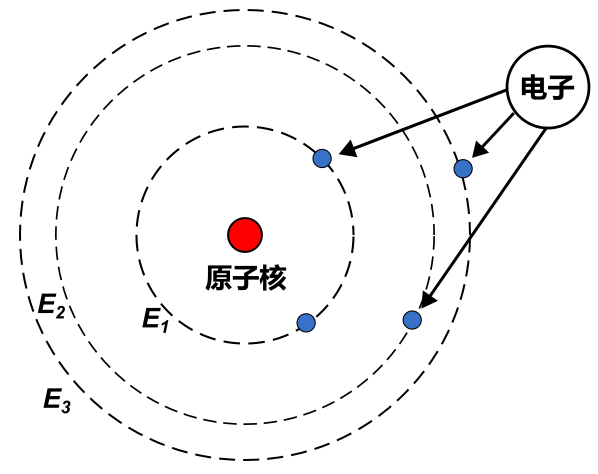
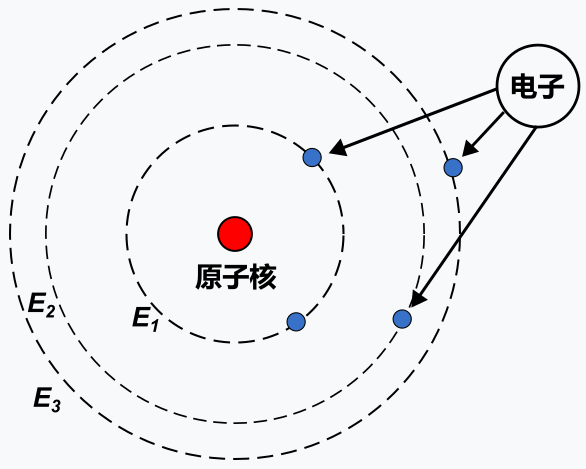
upload

diff --git a/_posts/2022-09-07-laser2.md b/_posts/2022-09-07-laser2.md
@@ -1,0 +1,76 @@
+---
+layout: post
+title: "激光原理——激光产生的原理"
+date:   2022-09-17
+tags: [geek]
+comments: true
+author: "飞鱼"
+---
+
+### 1. 原子发光的原理
+
+原子的能量是量子化的，电子所处的一系列的分立运动状态，对应于原子的一系列分立的能量值，这些能量通常称作电子的能级，依次用$E_1,E_2,E_3,...,E_n$表示，能量单位采用电子伏（$1eV = 1.602 \times 10^{-19}J$）。如下图，n的数值越大，电子所处轨道离原子核越远，则能量越大，能级越高。电子处于$n=1$轨道上时，能量处于最低状态，称之为基态（稳定状态），$n>1$的状态统称为激发态。
+
+<img src="https://raw.githubusercontent.com/JDavi123123/JDavi123123.github.io/master/images/202209162313704.png" alt="原子的结构" height = 250 />
+
+通常情况下，原子处于能量最低的基态。当外界向原子提供能量时，原子由于吸收了外界能量，原子内部的电子可移动低轨道跃迁到更高级的轨道，即原子跃迁到某一激发态。常见的激发方式之一是原子吸收一个光子而得到能量$hv$。处于激发态的原子是不稳定的，经过一段时间它会跃迁到能量较低的状态，以光子或其他方式放出能量。**无论是向上或是向下跃迁，原子所吸收或放出的能量都必须等于相应的能级差**。例如吸收或放出光子，必须有$hv=E_{n}-E_1$。
+
+### 2. 三种跃迁过程
+
+爱因斯坦从光与原子相互作用的量子论观点出发，提出光与原子的相互作用包括**原子的自发辐射跃迁，受激辐射跃迁和受激吸收跃迁三个过程**，这三个过程同时存在且相互关联。在激光器的发光过程中，始终伴随着这三个过程，受激辐射跃迁过程是激光产生的物理基础。
+
+#### 自发辐射
+
+如下图，原子被激发到高能级$E_2$时是不稳定的，它会试图使自己处于基态。因此，处于高能级$E_{2}$的原子自发地向低能级跃迁，并发射一个能量为$hv=E_{2}-E_1$光子，该过程称为自发辐射。
+
+<img src="https://raw.githubusercontent.com/JDavi123123/JDavi123123.github.io/master/images/202209162314990.png" alt="原子的结构" height = 90 />
+
+自发跃迁过程用自发跃迁爱因斯坦系数$A_{21}$描述。$A_{21}$定义为单位时间内原子中发生自发跃迁的原子数与处于$E_{2}$能级总粒子数力度的百分比。
+
+$$
+A_{21}=\left(\frac{dn_{21}}{dt}\right)\frac{1}{n_2}=-\frac{1}{n_2}\frac{dn_2}{t}
+$$
+
+自发辐射只与原子本身的性质有关，不同原子内部结构的不同，各个能级的平均寿命（原子停留在该能级的平均时间）也不相同。
+
+**自发辐射中各原子的辐射都是自发、独立进行的，因此各光子的初始相位、光子的传播方向和光子的振动方向等都是随机的，因此都是非相干的。**
+
+#### 受激辐射
+
+如下图，在频率为$v=(E_2-E_1)/h$的光照射下，处于高能级$E_{2}$上的原子有可能跃迁到低能级$E_1$,同时辐射出一个与诱发光子的状态完全相同（频率，传播方向，偏振方向，相位等）的光子，该过程称为受激辐射跃迁。
+
+<img src="https://raw.githubusercontent.com/JDavi123123/JDavi123123.github.io/master/images/202209162314575.png" alt="原子的结构" height = 100 />
+
+受激辐射过程用受激辐射跃迁概率$W_{21}$描述。$W_{21}$定义为：
+
+$$
+W_{21}=\left(\frac{dn_{21}}{dt}\right)\frac{1}{n_2}=-\frac{1}{n_2}\frac{dn_2}{t}
+$$
+
+受激辐射与自发辐射的区别在于他是在辐射场的激励下产生的。其跃迁概率不仅与原子本身的性质有关，还与外来光场的单色能量密度$\rho_{v}$成正比。
+
+$$
+W_{21}=B_{21}\rho_{v}
+$$
+
+上式中$B_{21}$为受激辐射跃迁爱因斯坦系数。
+
+#### 受激吸收
+
+如下图，处于低能级$E_1$的原子，在频率为$v=(E_2-E_1)/h$的光照射下，吸收一个能量为$h v_{21}$的光子后跃迁到高能级$E_2$，该过程称为受激吸收。
+
+<img src="https://raw.githubusercontent.com/JDavi123123/JDavi123123.github.io/master/images/202209162314283.png" alt="原子的结构" height = 100 />
+
+受激辐射过程用受激辐射跃迁概率$W_{21}$描述。$W_{21}$定义为：
+
+$$
+W_{12}=\left(\frac{dn_{12}}{dt}\right)\frac{1}{n_1}=-\frac{1}{n_1}\frac{dn_2}{t}
+$$
+
+受激吸收也是在辐射场的激励下产生的。其跃迁概率不仅与原子本身的性质有关，还与外来光场的单色能量密度$\rho_{v}$成正比。
+
+$$
+W_{12}=B_{12}\rho_{v}
+$$
+
+上式中$B_{12}$为受激吸收跃迁爱因斯坦系数。

diff --git a/_posts/2022-09-06-laser1.md b/_posts/2022-09-06-laser1.md
@@ -1,0 +1,48 @@
+---
+layout: post
+title: "激光原理——激光的特性"
+date:   2022-09-16
+tags: [geek]
+comments: true
+author: "飞鱼"
+---
+
+### 1. 高方向性
+光束的方向性用平面发散角$\theta$评价，$\theta$角越小光束发散越小，方向性越好，若$\theta$角趋于零，就可以近似地成为“平行光”；
+
+### 2. 单色性
+一个光源发射的光所包含的波长范围越窄，他的颜色就越单纯，即光源的单色性越好。单色性常用$\Delta \lambda/\lambda_{0}$或$\Delta v/v_{0}$来衡量；
+
+### 3. 相干性
+相干波意味着各子波之间有确定的相位关系。若两列波满足振动方向相同，频率相同，相位差恒定的相干条件，那么它们就是相干的。
+
+相干性包括时间相干性和空间相干性。
+#### 时间相干性
+时间相干性描述沿光束传播方向上各点的相位关系，指光场中同一个空间点在不同时刻光波场之间的相干性。时间相干性常用相干时间$t_{c}$来描述，*相干时间指光传播方向上某点处，可以使两个不同时刻的光波场之间有相干性的最大时间间隔，即光源所发出的有限长波列的持续时间*。相干性与单色性之间存在以下简单关系：
+
+$$
+t_{c}=\frac{1}{\Delta v}
+$$
+
+#### 空间相干性
+空间相干性描述垂直于光束传播方向的平面上各点之间的相位关系，指光场中不同的空间点在同一时刻光场的相干性，可以用相干面积来描述：
+
+$$
+S=	\left( \frac{\Delta \lambda}{\theta} \right)^2
+$$
+
+由上式可以看出，光束方向性越好，其空间相干性越好。
+
+对于普通光源，其发光机制是发光中心（原子、分子或电子）的自发辐射过程，不同发光中心发出的波列，或同一发光中心在不同时刻发出的波列相位都是随机的，因此光的相干性极差，或者说非相干光。激光是通过受激辐射过程形成的，其中每个光子的运动状态（频率、相位、偏振态、传播方向）都相同，因此激光是一种相干光。
+
+### 4. 高亮度
+亮度表征光源的明亮程度。光源的单色亮度定义为光源在单位面积、单位频带宽度和单位立体角内发射的光功率：
+
+$$
+B_{v} = \frac{P}{\Delta S\Delta v\Delta \Omega}
+$$
+
+上式中$B_{v}$的单位为$W/(cm^2\cdot sr\cdot Hz)$。
+
+
+具有高亮度的激光束经透镜聚焦后，能产生数千度乃至上万度的高温，这就使其可能加工所有的材料，甚至可以用来引发核聚变。
